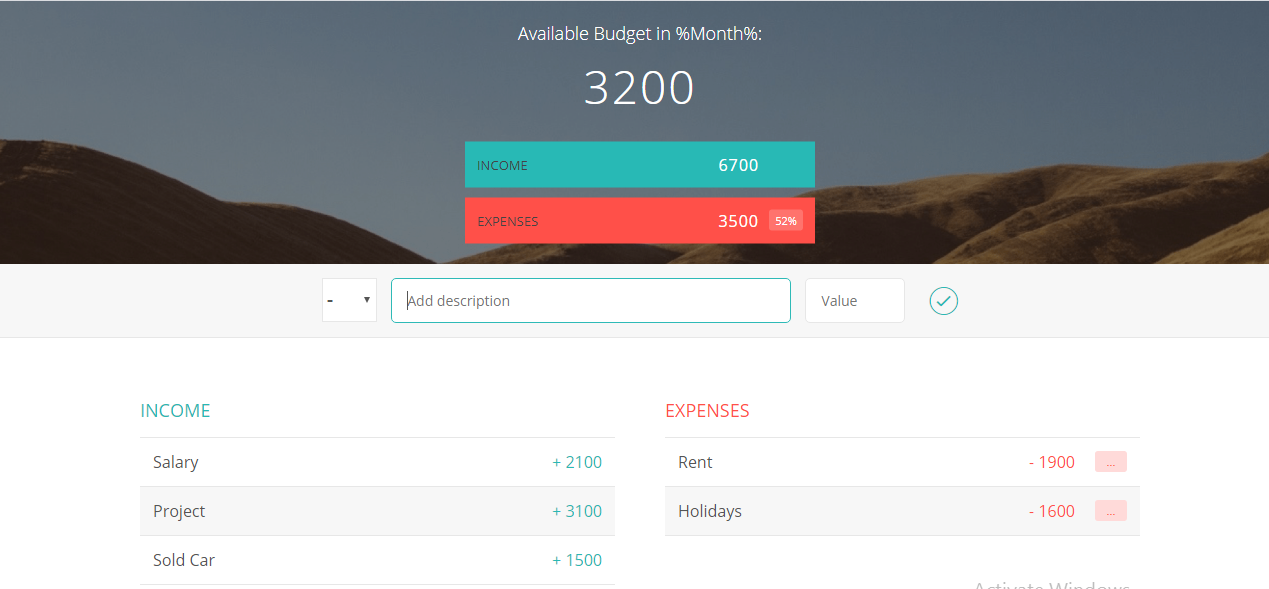
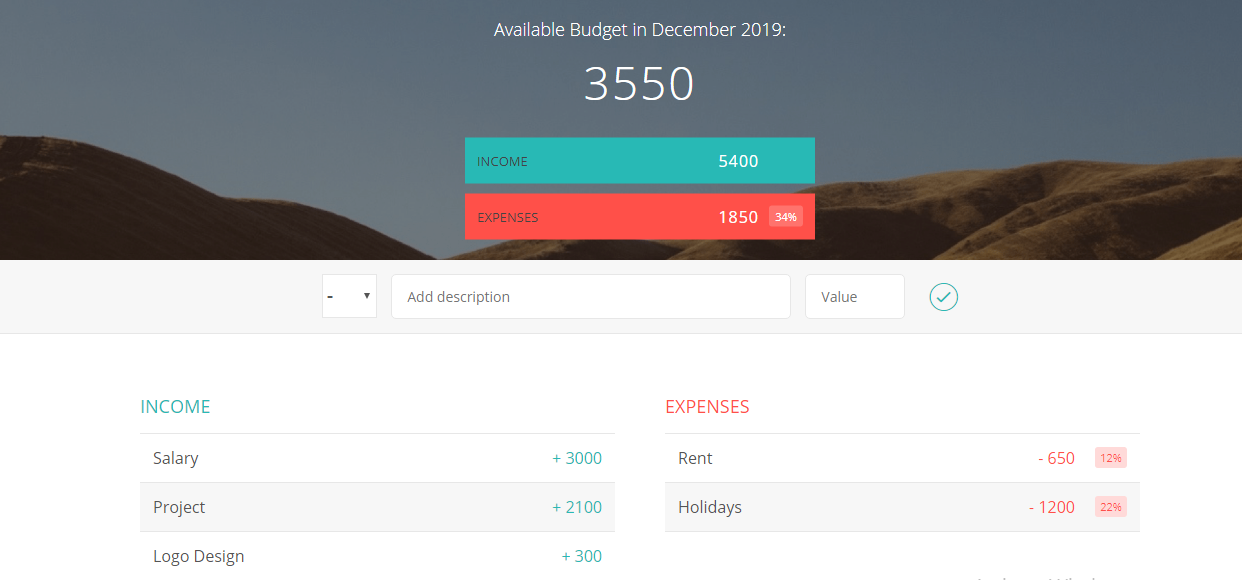
added the expense percentage realtime updates.

diff --git a/budget-app/app.js b/budget-app/app.js
@@ -1,5 +1,12 @@
+
 var uiController = (function() {
     
+    var forEachOfDOMNodes = function(nodes, callback) {
+        for (i = 0; i < nodes.length; i++) {
+            callback(nodes[i], i);
+        }
+    }
+            
     var DOMString = {
         budget_value: '.budget__value',
         income_value: '.budget__income--value',
@@ -11,7 +18,9 @@ var uiController = (function() {
         add_button: '.add__btn',
         incomeContainer: '.income__list',
         expensesContainer: '.expenses__list',
-        container: '.container'
+        container: '.container',
+        expense_percentage: '.item__percentage',
+        budget_title_month: '.budget__title--month'
     }
     
     
@@ -33,30 +42,65 @@ var uiController = (function() {
             document.querySelector(DOMString.budget_value).textContent = budget;
             document.querySelector(DOMString.income_value).textContent = totalInc;
             document.querySelector(DOMString.expense_value).textContent = totalExp;
-            document.querySelector(DOMString.budget_percentage).textContent = percentage + '%';             
+            if (percentage !== '---') {
+                percentage += '%';
+            }
+            document.querySelector(DOMString.budget_percentage).textContent = percentage;
+                                    
         },
-        addItemToContainer: function(item) {
-            if (item.type === 'inc') {
+        addItemToContainer: function(item, type) {
+            if (type === 'inc') {
                 html='<div class="item clearfix" id="%ID%"><div class="item__description">%DESC%</div><div class="right clearfix"><div class="item__value">+ %VALUE%</div><div class="item__delete"><button class="item__delete--btn"><i class="ion-ios-close-outline"></i></button></div></div></div>'
-                newHTML = html.replace('%ID%', item.type + '-' + item.id);
+                newHTML = html.replace('%ID%', type + '-' + item.id);
                 newHTML = newHTML.replace('%DESC%', item.desc);
                 newHTML = newHTML.replace('%VALUE%', item.value);
                 
                 document.querySelector(DOMString.incomeContainer).insertAdjacentHTML('beforeend', newHTML)
-            } else if (item.type === 'exp') {
+            } else if (type === 'exp') {
                 html=' <div class="item clearfix" id="%ID%"><div class="item__description">%DESC%</div><div class="right clearfix"><div class="item__value">- %VALUE%</div><div class="item__percentage">%PERCENTAGE%</div><div class="item__delete"><button class="item__delete--btn"><i class="ion-ios-close-outline"></i></button></div></div></div>'
-                newHTML = html.replace('%ID%', item.type + '-' + item.id);
+                newHTML = html.replace('%ID%', type + '-' + item.id);
                 newHTML = newHTML.replace('%DESC%', item.desc);
                 newHTML = newHTML.replace('%VALUE%', item.value);
                 newHTML = newHTML.replace('%PERCENTAGE%', '...');
                 
                 document.querySelector(DOMString.expensesContainer).insertAdjacentHTML('beforeend', newHTML)
-            }  
+            }
         },
         removeItemFromContainer: function(id) {
             var el = document.getElementById(id)
             el.parentNode.removeChild(el);
-        }
+        },
+        updateExpensePercentages: function(expences) {
+            console.log(expences);
+            var expenseIDWithPercentage = {};
+            expences.forEach(function(current, index) {
+                expenseIDWithPercentage[current.id] = current.percentage;
+            })
+            console.log(expenseIDWithPercentage);
+            
+            nodes = document.querySelectorAll(DOMString.expense_percentage);            
+            
+            forEachOfDOMNodes(nodes, function(current, index) {
+                itemID = current.parentNode.parentNode.id;
+                splittedItemID = itemID.split('-');
+                id = parseInt(splittedItemID[1]);
+                if (id !== -1) {
+                    current.textContent = expenseIDWithPercentage[id] + '%';
+                }
+            })
+        },
+        updateMonthYear: function() {
+            var now, months, month, year;
+            
+            now = new Date();
+            //var christmas = new Date(2016, 11, 25);
+            
+            months = ['January', 'February', 'March', 'April', 'May', 'June', 'July', 'August', 'September', 'October', 'November', 'December'];
+            month = now.getMonth();
+            
+            year = now.getFullYear();
+            document.querySelector(DOMString.budget_title_month).textContent = months[month] + ' ' + year;
+        },
     }
     
 })();
@@ -64,6 +108,23 @@ var uiController = (function() {
 
 var budgetController = (function() {
     
+    var Income = function(id, desc, value) {
+        this.id = id;
+        this.desc = desc;
+        this.value = value;
+    };
+    
+    var Expense = function(id, desc, value) {
+        this.id = id;
+        this.desc = desc;
+        this.value = value;
+        this.percentage = -1;
+    }
+    Expense.prototype.calcPercentage = function() {
+        if (data.total_inc > 0) {
+            this.percentage = Math.round((this.value / data.total_inc) * 100);
+        }
+    }
 
     var data = {
         exp: [],
@@ -85,18 +146,16 @@ var budgetController = (function() {
                 if (data[type].length > 0) {
                     id = data[type][data[type].length - 1].id + 1;
                 }
-                data[type].push({
-                    id: id,
-                    desc: desc,
-                    value: value
-                });
-                
-                return {
-                    type: type,
-                    id: id,
-                    desc: desc,
-                    value: value
+                var newItem;
+                if (type === 'exp') {
+                    newItem = new Expense(id, desc, value);                    
+                } else if (type === 'inc') {
+                    newItem = new Income(id, desc, value);                    
                 }
+                 
+                data[type].push(newItem)
+                
+                return newItem;
             }
         },
         removeItem: function(type, id) {
@@ -120,7 +179,15 @@ var budgetController = (function() {
                 data.total_exp += current.value;
             })            
             data.budget = data.total_inc - data.total_exp;
-            data.percentage = Math.round((data.total_exp / data.total_inc) * 100);
+            
+            if (data.total_inc > 0) {
+                data.percentage = Math.round((data.total_exp / data.total_inc) * 100);
+            }
+            
+            // calculate percentages in Expense item.
+            data.exp.forEach(function(current) {
+                current.calcPercentage();
+            })
         },
         getBudget: function() {
             return {
@@ -129,6 +196,9 @@ var budgetController = (function() {
                 budget: data.budget,
                 percentage: data.percentage                
             }
+        },
+        getExpenses: function() {
+            return data.exp;
         }
     }
     
@@ -150,9 +220,10 @@ var appController = (function(uiCtrl, budgetCtrl) {
             budgetCtrl.print();
 
             // 3. Update the UI from uiController
-            uiCtrl.addItemToContainer(item);
+            uiCtrl.addItemToContainer(item, input.type);
             budget = budgetCtrl.getBudget();
             uiCtrl.updateBudgetUI(budget.budget, budget.total_exp, budget.total_inc, budget.percentage);
+            uiCtrl.updateExpensePercentages(budgetCtrl.getExpenses());
             
         }
     };
@@ -176,7 +247,8 @@ var appController = (function(uiCtrl, budgetCtrl) {
             //3. update the UI from uiController
             uiCtrl.removeItemFromContainer(itemID);
             budget = budgetCtrl.getBudget();
-            uiCtrl.updateBudgetUI(budget.budget, budget.total_exp, budget.total_inc, budget.percentage);            
+            uiCtrl.updateBudgetUI(budget.budget, budget.total_exp, budget.total_inc, budget.percentage);
+            uiCtrl.updateExpensePercentages(budgetCtrl.getExpenses());
         }
         
         
@@ -196,6 +268,7 @@ var appController = (function(uiCtrl, budgetCtrl) {
     return {
         start: function() {
             uiCtrl.updateBudgetUI(0, 0, 0, '---');
+            uiCtrl.updateMonthYear();
             addEnvetHandlers();
         }
     }
